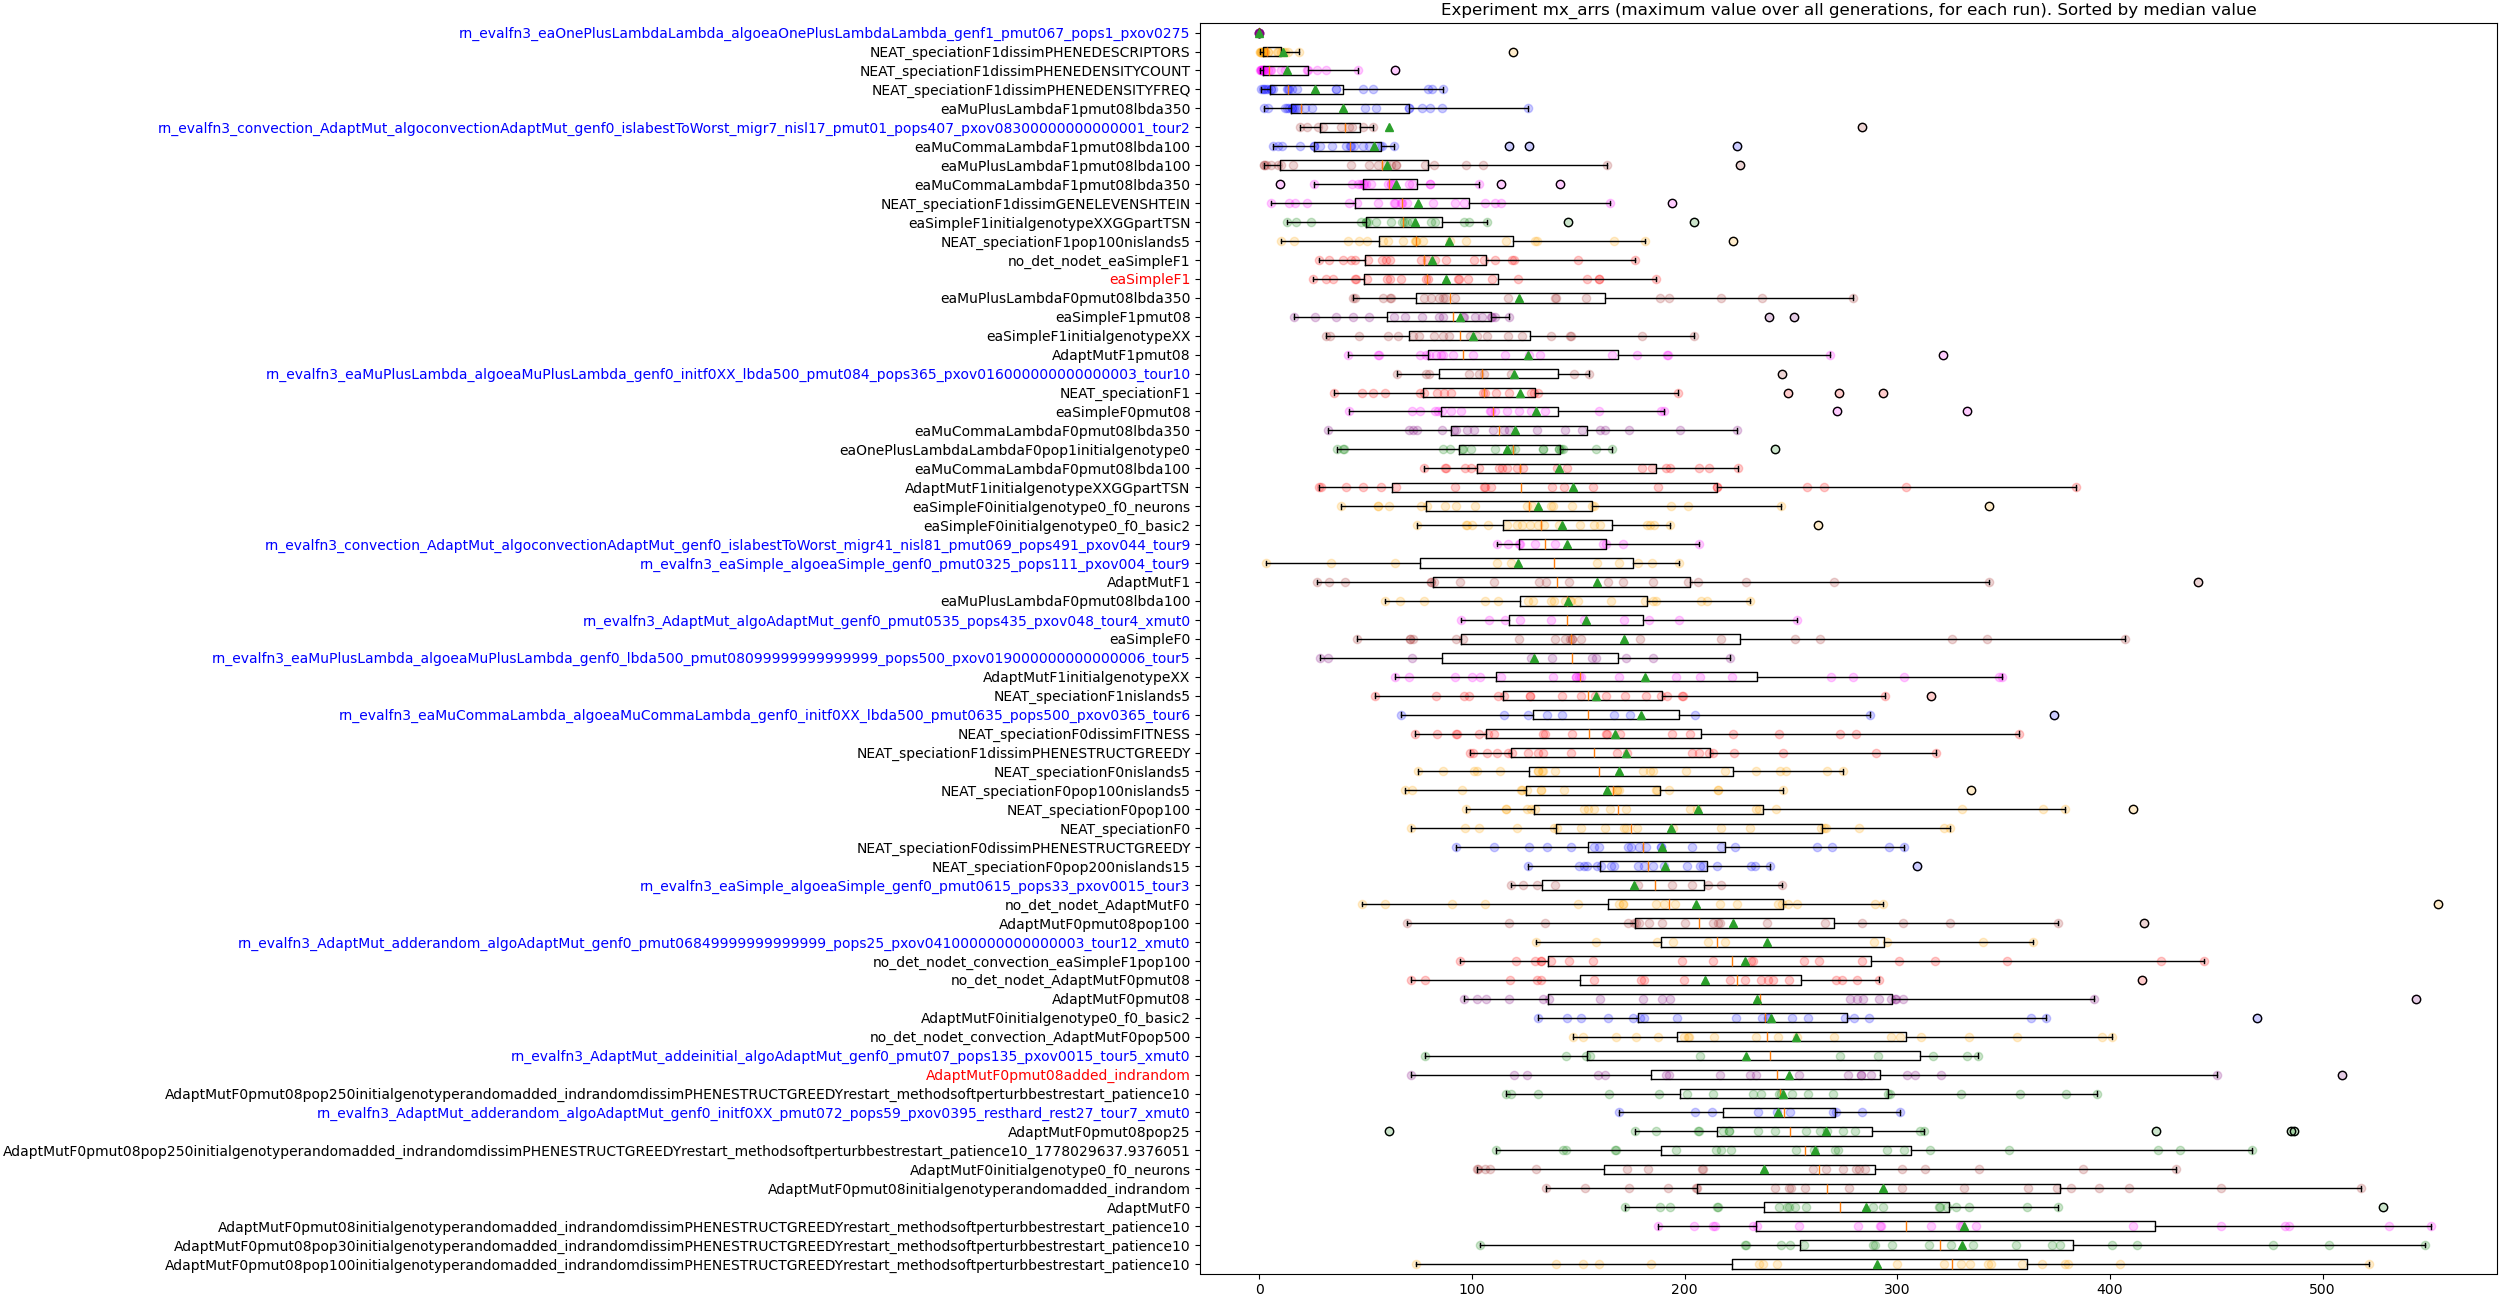
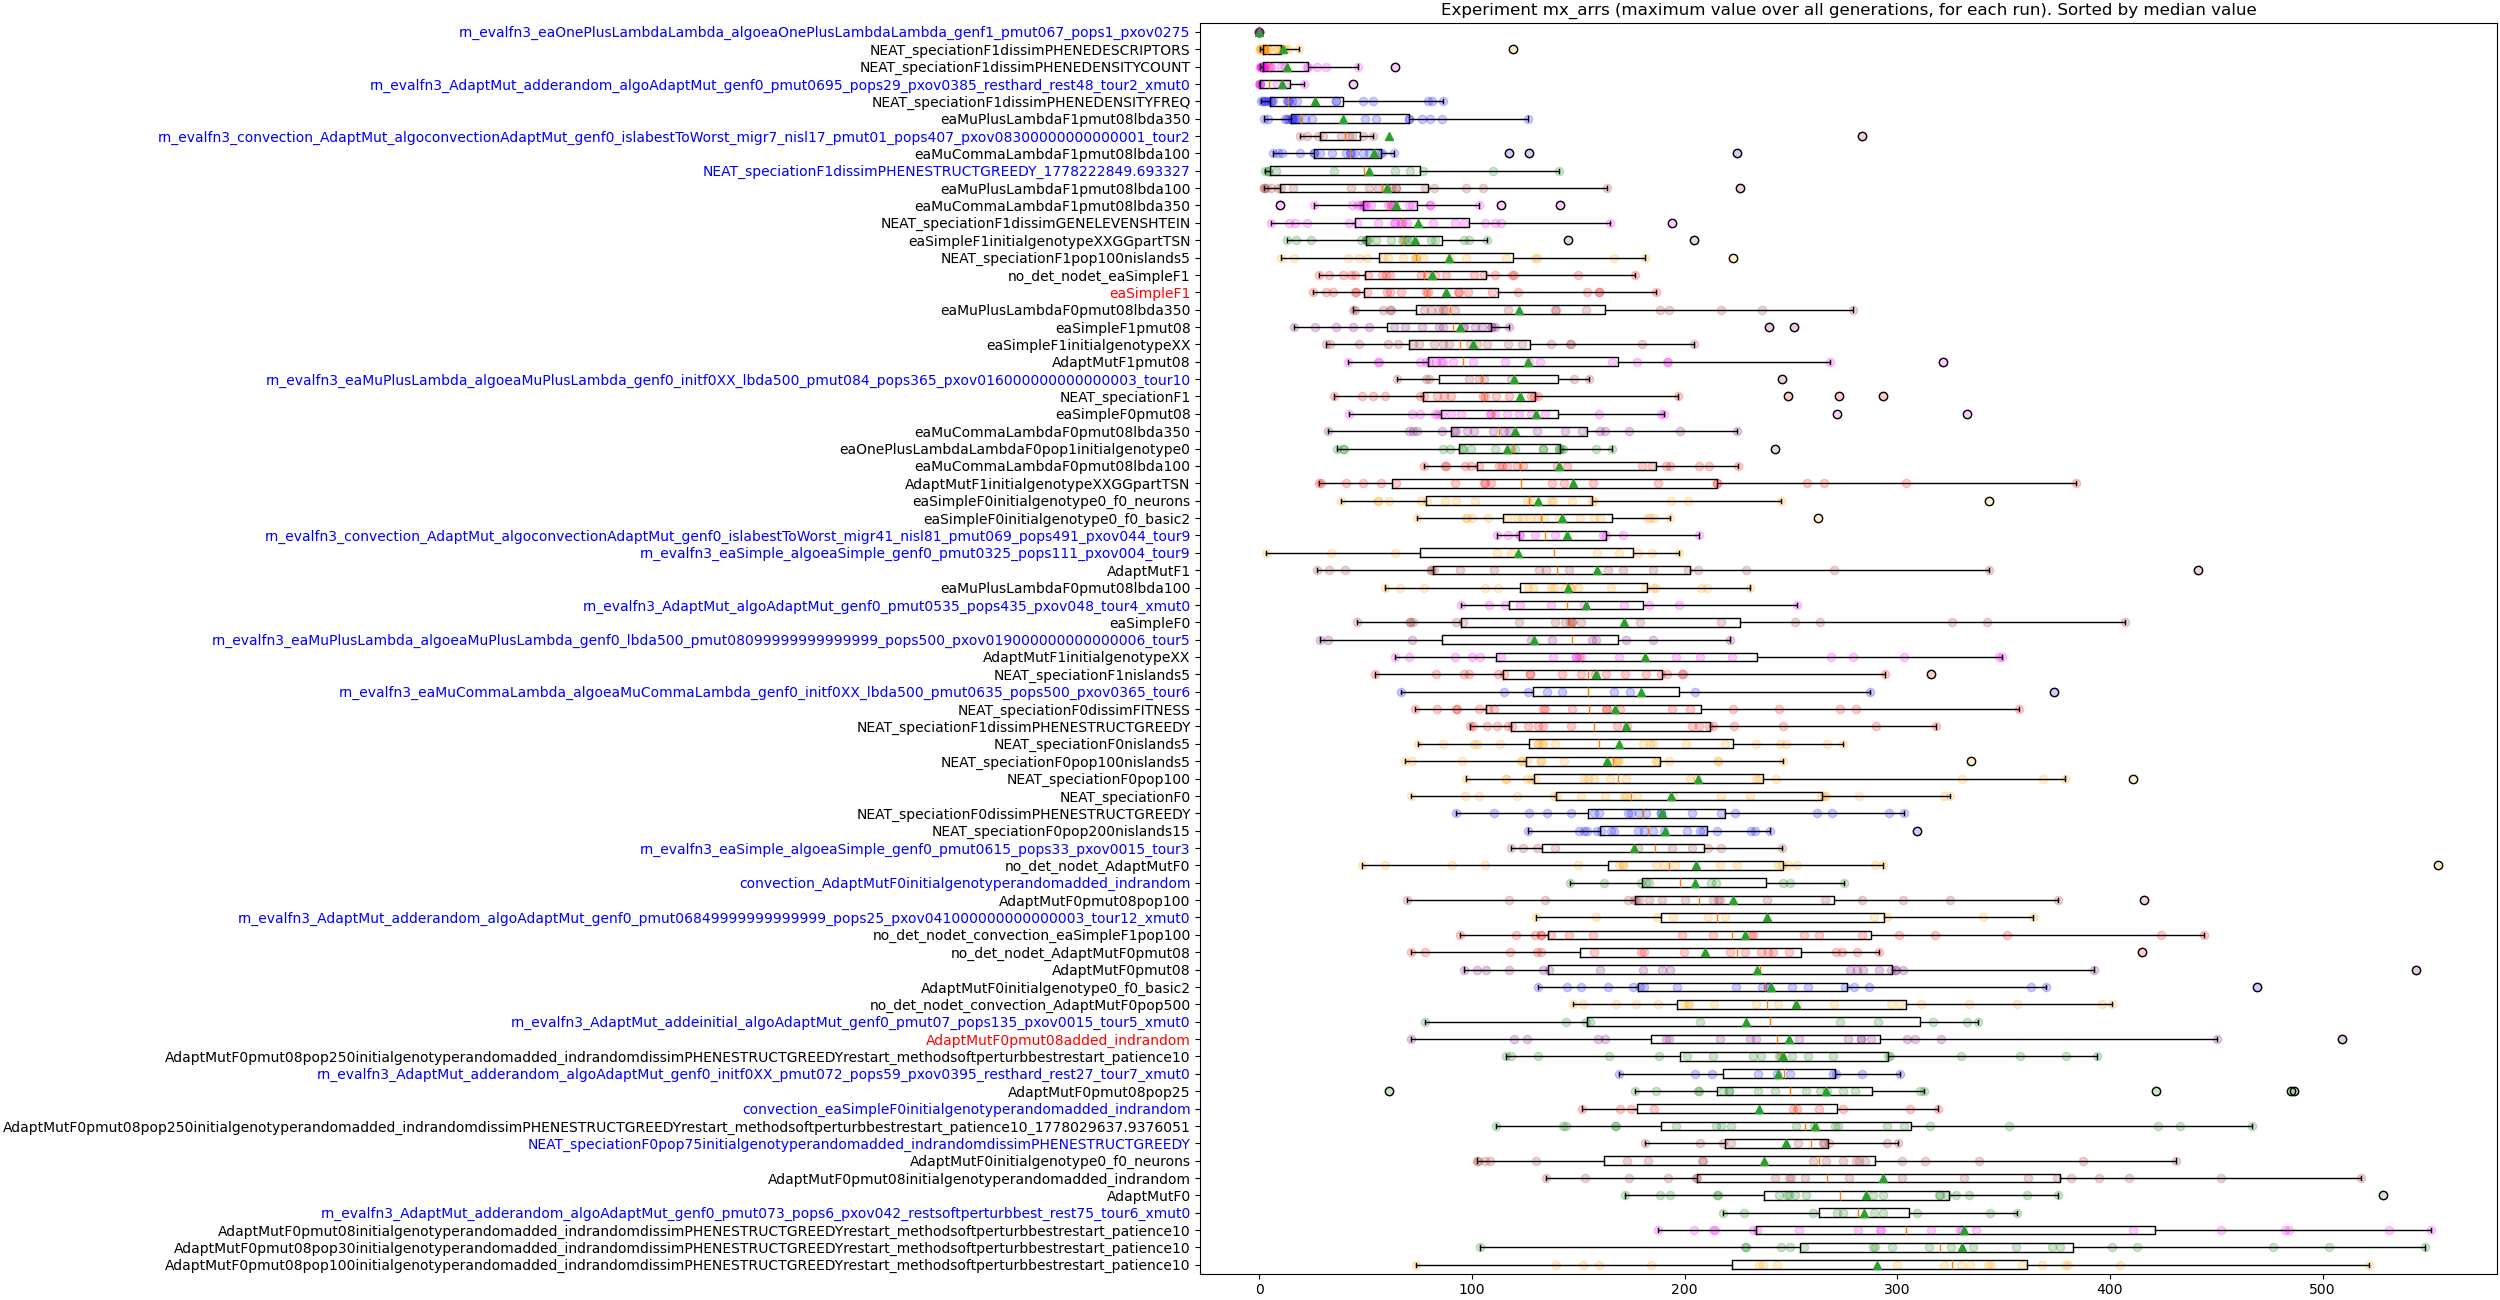
Update

Changed region(s): [[0.0, 0.0, 0.9672, 0.9846]]

diff --git a/src/dalgorithm/customMutation.py b/src/dalgorithm/customMutation.py
@@ -1,4 +1,104 @@
+"""
+Genman:
+ * genoper_f0 "Operators for f0" type="d 0 0 ~Default" flags=65 group=1 help=""
+ * genoper_f1 "Operators for f1" type="d 0 0 ~Default" flags=65 group=1 help=""
 
+ neuadd_* ....
+The selection params shouldn't be used, since the mutation/selection/xover are handled as part of the competition submission:
+------------------- Group #1: Experiment: Parameters: Selection -------------------
+ * p_nop "Unchanged" type="f 0 100 20" flags=192 group=1 help=""
+ * p_mut "Mutated" type="f 0 100 64" flags=192 group=1 help=""
+ * p_xov "Crossed over" type="f 0 100 16" flags=192 group=1 help=""
+ * xov_mins "Minimal similarity" type="f 0 9999 0" flags=192 group=1 help="Only genotypes with dissimilarity below this threshold will be crossed over.
+Value of 0 means no crossover restrictions."
+ * selrule "Selection rule" type="d 0 5 3 ~Random~Fitness-proportional (roulette)~Tournament (2 genotypes)~Tournament (3 genotypes)~Tournament (4 genotypes)~Tournament (5 genotypes)" flags=192 group=1 help="Positive selection: how to choose genotypes for cloning/mutation/crossover"
+ * delrule "Delete genotypes" type="d 0 2 ~Randomly~Inverse-proportionally to fitness~Only the worst" flags=192 group=1 help="Negative selection: which genotypes should be removed when we need room for new genotypes in the gene pool.
+If multiple-criteria NSGA-II is set as positive selection, this setting is ignored and "worst rank and crowding distance" is used as negative selection."
+
+------------------- Group #2: Experiment: Parameters: Fitness -------------------
+ * cr_c "Constant" type="f -10000 10000 0" flags=192 group=2 help="Constant value added to total fitness"
+ * cr_life "Life span" type="f -10000 10000 0" flags=192 group=2 help="Weight of life span in total fitness"
+ * cr_v "Velocity" type="f -10000 10000 0" flags=192 group=2 help="Weight of horizontal velocity in total fitness"
+ * cr_gl "Body parts" type="f -10000 10000 0" flags=192 group=2 help="Weight of body size (number of parts) in total fitness"
+ * cr_joints "Body joints" type="f -10000 10000 0" flags=192 group=2 help="Weight of structure size (number of joints) in total fitness"
+ * cr_nnsiz "Brain neurons" type="f -10000 10000 0" flags=192 group=2 help="Weight of brain size (number of neurons) in total fitness"
+ * cr_nncon "Brain connections" type="f -10000 10000 0" flags=192 group=2 help="Weight of brain connections in total fitness"
+ * cr_di "Distance" type="f -10000 10000 0" flags=192 group=2 help="Weight of distance in total fitness"
+ * cr_vpos "Vertical position" type="f -10000 10000 0" flags=192 group=2 help="Weight of vertical position in total fitness"
+ * cr_vvel "Vertical velocity" type="f -10000 10000 0" flags=192 group=2 help="Weight of vertical velocity in total fitness"
+ * cr_norm "Criteria normalization" type="d 0 1 0" flags=192 group=2 help="Normalize each criterion to 0..1 interval before weighting"
+ * cr_simi "Similarity speciation" type="d 0 1 0" flags=192 group=2 help="If enabled, fitness of each genotype will be reduced by its phenotypic similarity to all other genotypes in the gene pool"
+ * cr_nsga "NSGA-II for multiple criteria" type="d 0 1 0" flags=192 group=2 help="If enabled, fitness will be replaced with Pareto ranks from NSGA-II (Non-dominated Sorting Genetic Algorithm) method.
+Using tournament selection is recommended.
+This setting also forces negative selection to be "worst rank and crowding distance" independently from the negative selection setting."
+"""
+
+"""
+------------------- Group #3: Genetics: f0 -------------------
+ * f0_nodel_tag "Respect the 'delete inhibit' tag" type="d 0 1 1" flags=0 group=3 help="You can tag elements using their 'i' field and the i="mi=d" tag.
+Mutations will not delete such elements.
+The i="mi=dm" combination is allowed."
+ * f0_nomod_tag "Respect the 'modify inhibit' tag" type="d 0 1 1" flags=0 group=3 help="You can tag elements using their 'i' field and the i="mi=m" tag.
+Mutations will not modify properties of such elements.
+The i="mi=md" combination is allowed."
+
+------------------- Group #4: Genetics: f0: Parts -------------------
+ * f0_p_new "New part" type="f 0 100 4" flags=0 group=4 help=""
+ * f0_p_del "Delete part" type="f 0 100 4" flags=0 group=4 help=""
+ * f0_p_swp "Swap parts" type="f 0 100 1" flags=0 group=4 help=""
+ * f0_p_pos "Position" type="f 0 100 4" flags=0 group=4 help=""
+ * f0_p_den "Density" type="f 0 100 0" flags=0 group=4 help="Density only has an influence under water"
+ * f0_p_frc "Friction" type="f 0 100 1" flags=0 group=4 help=""
+ * f0_p_ing "Ingestion" type="f 0 100 0" flags=0 group=4 help=""
+ * f0_p_asm "Assimilation" type="f 0 100 0" flags=0 group=4 help="The interpretation and influence of this property must be implemented by the experiment definition"
+ * f0_p_color "Visual only: color" type="f 0 100 0.01" flags=0 group=4 help="If this value is above zero, apart from this mutation occurring, the color of every newly created gray Part will be mutated on creation"
+
+------------------- Group #5: Genetics: f0: Joints -------------------
+ * f0_j_new "New joint" type="f 0 100 4" flags=0 group=5 help=""
+ * f0_j_del "Delete joint" type="f 0 100 1" flags=0 group=5 help=""
+ * f0_j_stm "Stamina" type="f 0 100 0" flags=0 group=5 help="The interpretation and influence of this property must be implemented by the experiment definition"
+ * f0_j_stf "Stiffness" type="f 0 100 0" flags=0 group=5 help=""
+ * f0_j_rsf "Rotational stiffness" type="f 0 100 0" flags=0 group=5 help=""
+ * f0_j_color "Visual only: color" type="f 0 100 0.01" flags=0 group=5 help="If this value is above zero, apart from this mutation occurring, every newly created Joint will be assigned a color that is the average color of both joined Parts"
+
+------------------- Group #6: Genetics: f0: Neurons -------------------
+ * f0_n_new "New neuron" type="f 0 100 3" flags=0 group=6 help=""
+ * f0_n_del "Delete neuron" type="f 0 100 3" flags=0 group=6 help=""
+ * f0_n_prp "Change properties" type="f 0 100 1" flags=0 group=6 help=""
+
+------------------- Group #7: Genetics: f0: Connections -------------------
+ * f0_c_new "New connection" type="f 0 100 2" flags=0 group=7 help=""
+ * f0_c_del "Delete connection" type="f 0 100 2" flags=0 group=7 help=""
+ * f0_c_wei "Change weight" type="f 0 100 1" flags=0 group=7 help=""
+"""
+"""
+------------------- Group #13: Genetics: f1 -------------------
+ * f1_xo_propor "Proportional crossover" type="d 0 1 1" flags=0 group=13 help="Cross over (exchange) corresponding segments of the two parent genotypes?
+
+f1 uses a two-point crossing over.
+If this option is turned on, cut points will be selected proportionally to neural genes in both parents, and a similar number of characters will be exchanged if possible.
+Thus, if both parents have the same number of neurons, then this will be preserved in their children."
+
+------------------- Group #14: Genetics: f1: Morphology -------------------
+ * f1_smX "Add/remove a stick X" type="f 0 100 4" flags=0 group=14 help=""
+ * f1_smJunct "Add/remove a branch ( )" type="f 0 100 1" flags=0 group=14 help=""
+ * f1_smComma "Add/remove a comma ," type="f 0 100 1" flags=0 group=14 help=""
+ * f1_smModif "Add/remove a modifier" type="f 0 100 4" flags=0 group=14 help="Modifiers: LlRrCcQqFfMmEeWwSsAaIiDdGgBb"
+ * f1_smModifiers "Allowed modifiers" type="s 0 100" flags=0 group=14 help="Modifier symbols that will be added or deleted during mutation
+(from the full set: LlRrCcQqFfMmEeWwSsAaIiDdGgBb).
+
+You may use the extended syntax: after every allowed symbol, you may include its probability value in parentheses.
+Without parentheses, all allowed symbols behave as if they had (1.0) appended.
+If you include (0.0) after a symbol, this bans that symbol as if it was not present in this string."
+
+------------------- Group #15: Genetics: f1: Neuron net -------------------
+ * f1_nmNeu "Add/remove a neuron" type="f 0 100 4" flags=0 group=15 help="Adds a (connected) neuron or removes a neuron"
+ * f1_nmConn "Add/remove neural connection" type="f 0 100 2" flags=0 group=15 help=""
+ * f1_nmProp "Add/remove neuron property setting" type="f 0 100 1" flags=0 group=15 help=""
+ * f1_nmWei "Change connection weight" type="f 0 100 1" flags=0 group=15 help=""
+ * f1_nmVal "Change property value" type="f 0 100 1" flags=0 group=15 help=""
+"""
+# These values are taken from eval-allcriteria.sim, but it would be better to load them on Framsticks initialization.
 BODY_MUT = {
   "0":  {
 # Mutation weights pertaining to body parts/joints,
@@ -45,8 +145,8 @@ NEURO_MUT = {
     "f1_xo_propor": 1, # point crossover will cut so the same amount of neurons is in both cut parts
     "f1_nmNeu": 0.05,
     "f1_nmConn": 0.1,
-    "f1_nmProp": 0.1, # ??
-    "f1_nmWei": 1.0, # ??
+    "f1_nmProp": 0.1,
+    "f1_nmWei": 1.0,
     "f1_nmVal": 0.05,
   },
   "generic": {
@@ -89,16 +189,35 @@ NEURO_MUT = {
   }
 }
 
-DEFAULTS = {
-
+# TBD What parameter groups are useful to take together.
+SHORTCUTS = {
+  'add_thing': [
+    'f0_n_new', 'f0_c_new',
+    'f1_nmNeu', 'f1_nmConn', 'f1_nmProp',
+    # ????
+  ],
 }
+
+def setExpProperty(name, value):
+  exec(f"frams.GenMan.{name} = {value}")
+
+def getExpProperty(name):
+  rval = None # So compiler doesn't complain
+  exec(f"rval = frams.GenMan.{name}")
+  return rval
 
 def set_general_weights(framsLib, w_body, w_neuro):
   pass
 
+def get_all_prop_names(genetic_repr = None):
+  return list(NEURO_MUT["0"].keys() if genetic_repr != '1' else []) + list(NEURO_MUT["1"].keys() if genetic_repr != '0' else []) + list(NEURO_MUT["generic"].keys()) + \
+    list(BODY_MUT["0"].keys() if genetic_repr != '1' else []) + list(BODY_MUT["0"].keys() if genetic_repr != '0' else [])
+
 def get_current_weights(framsLib, genetic_repr):
-  pass
-  return {}
+  d = {}
+  for prop in get_all_prop_names():
+    d[prop] = getExpProperty(prop)
+  return d
 
 def set_weights(framsLib, genetic_repr, settings=DEFAULTS):
   pass

diff --git a/src/runExperiment.py b/src/runExperiment.py
@@ -118,7 +118,13 @@ def frams_getsimplest(frams_lib: FramsticksLib, genetic_format, initial_genotype
 	return initial_genotype if initial_genotype is not None else frams_lib.getSimplest(genetic_format)
 
 def frams_getrandomindividual(frams_lib: FramsticksLib, initial_genotype):
-	ind = frams_lib.getRandomGenotype(initial_genotype, 2, 100, 2, 100, 100, True)
+	ind = frams_lib.getRandomGenotype(initial_genotype, 
+			2,
+				min(parsed_args.max_numparts if parsed_args.max_numparts is not None else 10000000000000000000, 100),
+			# Movement should require at least 2 neurons: A muscle and a sensor
+			min(parsed_args.max_numneurons if parsed_args.max_numneurons is not None else 10000000000000000000, 2),
+				min(parsed_args.max_numneurons if parsed_args.max_numneurons is not None else 10000000000000000000, 100),
+			100, True)
 	return ind
 
 
@@ -179,7 +185,14 @@ def prepareToolbox(frams_lib, OPTIMIZATION_CRITERIA, tournament_size, genetic_fo
 	toolbox.register("attr_simplest_genotype", frams_getsimplest, frams_lib, genetic_format, initial_genotype)  # "Attribute generator"
 	toolbox.register("attr_random_genotype", frams_getrandomindividual, frams_lib, toolbox.attr_simplest_genotype())  # "Attribute generator"
 	def attr_random_pop_from_genotype(frams_lib, init_geno, n):
-		pop = [tools.initRepeat(creator.Individual, lambda: frams_lib.getRandomGenotype(init_geno, 2, 100, 2, 100, random.randrange(0, 4), True), 1) for _ in range(n // 4)]
+		pop = [tools.initRepeat(creator.Individual, lambda: frams_lib.getRandomGenotype(init_geno,
+				2,
+					min(parsed_args.max_numparts if parsed_args.max_numparts is not None else 10000000000000000000, 100),
+				# Movement should require at least 2 neurons: A muscle and a sensor
+				min(parsed_args.max_numneurons if parsed_args.max_numneurons is not None else 10000000000000000000, 2),
+					min(parsed_args.max_numneurons if parsed_args.max_numneurons is not None else 10000000000000000000, 100),
+				random.randrange(0, 4), True)
+			, 1) for _ in range(n // 4)]
 		# Reinit with 1/4 best ind, 3/4 randoms.
 		return pop + [tools.initRepeat(creator.Individual, toolbox.attr_random_genotype, 1) for _ in range(n - len(pop))]
 

diff --git a/src/load_optuna.py b/src/load_optuna.py
@@ -13,6 +13,7 @@ CONFIG = load_config()
 DB_PATH = get_database_path(CONFIG)
 
 SIMPLEST_GENOTYPE = {
+    '_random': 'random',
     '_simplest':'None',
     'f1_XX':'XX',
     # In order: @rotation muscle, |bending muscle, Gyroscope, Gpart (Tilt), Muscle, Touch, Smell, Neuron(sigmoid), *constant
@@ -53,7 +54,7 @@ PARAM_DISTRIBUTIONS = {
   ]),
   'nodet': optuna.distributions.CategoricalDistribution([0, 1]),
   'genformat': optuna.distributions.CategoricalDistribution([0, 1]),
-  'initialgenotype': optuna.distributions.CategoricalDistribution(['simplest', 'XX', 'XXneurons']),
+  'initialgenotype': optuna.distributions.CategoricalDistribution(['simplest', 'XX', 'XXneurons', 'random']),
   # EA parameters
   'popsize': optuna.distributions.IntDistribution(1, 500, step=1),
   'tournament': optuna.distributions.IntDistribution(2, 20),
@@ -126,7 +127,10 @@ def try_cast(value: str, type):
 
 def from_str_to_type(algo_data_param, param_name: str):
   value = algo_data_param.get(param_name)
-  if param_name == 'initialgenotype' and value in SIMPLEST_GENOTYPE.values():
+  if param_name == 'initialgenotype':
+    if value not in SIMPLEST_GENOTYPE.values():
+      print("Oops, not valid initialgenotype: ", value)
+      exit(0)
     cval = [k for k,v in SIMPLEST_GENOTYPE.items() if v == value][0]
     print('cval', cval)
     if cval.startswith('f0'):
@@ -185,10 +189,16 @@ def create_study_and_import(study: optuna.Study, algo_key: str, algo_data: dict)
     if algo_data['params'].get('restart_method', None) == 'none' \
         or algo_data['params'].get('restart_patience', None) == '100000000':
       algo_data['params'].pop('restart_patience')
+    print('baba', algo_data['params'].get('population_initialization', None))
+    if algo_data['params'].get('population_initialization', None) == 'random':
+      algo_data['params']['initialgenotype'] = 'random'
+    if algo_data['params'].get('population_initialization', None) is not None:
+      algo_data['params'].pop('population_initialization')
     print(algo_data['params'])
     for param_name in PARAM_DISTRIBUTIONS.keys():
       if param_name in ALGO_PARAMS[algo_data['params']['algorithm']]:
         params[param_name] = DEFAULTS[param_name] if param_name not in algo_data['params'] or algo_data['params'][param_name] == 'None' else from_str_to_type(algo_data['params'], param_name)
+    print(params)
 
     meta_list = algo_data['meta']
     runs = algo_data['runs']

diff --git a/src/runExperimentsQueue.py b/src/runExperimentsQueue.py
@@ -92,18 +92,6 @@ def getUnrunExperiments():
     print (f"{alr_run}/{runns} ({alr_run/runns:.3f})")
 
 runs_cfgs = [
-    {
-        'convection': False, #[None, 'convection_'],
-        'algorithm': 'AdaptMut', # ['AdaptMut', 'eaSimple', 'eaMuPlusLambda', 'eaMuCommaLambda', 'NEAT_speciation'],
-        'genformat': 0, # [0, 1],
-        'pmut': 0.8, # [None, 0.8, 0.5],
-        'pop': 30, # [None, 100, 500],
-        'lbda': None, # [100, 350]
-        'extra': ' -numworkers 10 -nruns 20 ', # -nodet 1
-        'extra_cargs': f' -initialgenotype random -added_ind random -dissim PHENE_STRUCT_GREEDY -restart_method soft_perturb_best -restart_patience 10', #f' -initialgenotype \\"{SIMPLEST_GENOTYPE["f1_basic2"]}\\" ', -dissim FITNESS -opt COGpath,vertpos 
-        'nameSuffix': '',
-        'namePrefix': '',
-    },
     ## TODO: Rerun the following in the weekend, when no other processes are running:
     # {
     #     'convection': None, #[None, 'convection_'],

diff --git a/framspy/frams-test.py b/framspy/frams-test.py
@@ -87,6 +87,11 @@ for s in range(15):
 	print(offspring.genotype)
 frams.GenMan.f1_nmNeu = 0.5
 print('oops')
+for s in range(15):
+	step()  # first step performs selection and revives one genotype according to standard.expdef rules
+	creature = frams.Populations[0][0]  # FramScript Creature object
+	offspring = frams.GenMan.mutate(frams.Geno.newFromString(creature.genotype))
+	print(offspring.genotype)
 creature_orig = str((frams.Populations[0][0]).genotype)
 print('=', creature_orig)
 import copy, random
@@ -110,7 +115,7 @@ def frams_dissim(frams_lib: FramsticksLib, individuals: list, dissim_method:Diss
 	# print(individuals)
 	return frams_lib.dissimilarity(individuals, method=dissim_method)
 FramsticksLib.DETERMINISTIC = False
-fsl = FramsticksLib('I:\Disertatie\Framsticks', None, 'eval-allcriteria.sim;deterministic.sim;recording-body-coords.sim')
+fsl = FramsticksLib('../../Framsticks54', None, 'eval-allcriteria.sim;deterministic.sim;recording-body-coords.sim')
 violations={dm: {'triangle': 0, 'sim': 0, 'time': 0} for dm in DissimMethod}
 import numpy as np, time
 

diff --git a/src/dalgorithm/AdaptMut.py b/src/dalgorithm/AdaptMut.py
@@ -136,9 +136,9 @@ def adaptMut(population, toolbox, cxpb, mutpb, ngen, xmut_enabled, added_ind,
             consider_interval = maxFits[-restart_patience:-1]
             bestFitPast = sorted(consider_interval, key=lambda x: x[0], reverse=True)[0]
             ind = consider_interval.index(bestFitPast)
-            for mf in consider_interval:
-                print(f"({mf[0]:10.5f})")
-            print(len(consider_interval))
+            # for mf in consider_interval:
+            #     print(f"({mf[0]:10.5f})")
+            # print(len(consider_interval))
             print(f"{maxFits[-1][0]} <= {bestFitPast[0]} and {ind} == {restart_patience}")
             # bestFitPast = maxFits[-restart_patience:]
             if maxFits[-1][0] <= bestFitPast[0] and ind == 0:

diff --git a/src/dalgorithm/NEAT_speciation.py b/src/dalgorithm/NEAT_speciation.py
@@ -18,10 +18,7 @@ class Species:
     def __init__(self, pop: list):
         self.pop = pop
         self.past_fitnesses = []
-
-    @property
-    def uid(self):
-        return id(self) % UID_P10
+        self.uid = id(self) % UID_P10
 
     @property
     def age(self):

diff --git a/src/collect_data.py b/src/collect_data.py
@@ -86,8 +86,6 @@ def parse_algo_params(name: str):
     pp = re.findall(PARAM_PATT, parstr)
     for g in pp:
         params[g[0]] = g[1]
-    if 'population_initialization' in params:
-        params.pop('population_initialization')
     return params
 
 PARAM_PATT = re.compile(r'\b([\w0-9]+)=([\w0-9_\-\n \/.;:]+)')
@@ -555,7 +553,7 @@ if __name__ == '__main__':
         print = lambda *x, **kw: x
     if parsedargs.redo:
         os.system(f'rm {DATA_FILE}')
-        os.system(f'rm {STATS_FILE}')
+    os.system(f'rm {STATS_FILE}')
     if not os.path.exists(STATS_FILE):
         if not os.path.exists(DATA_FILE):
             print('Parsing results...')

diff --git a/src/optuna_study.py b/src/optuna_study.py
@@ -143,6 +143,8 @@ N_JOBS = 10  # Change to 10 for parallel execution
 # ============================================================================
 
 SIMPLEST_GENOTYPE = {
+    'f1_random': 'random',
+    'f0_random': 'random',
     'f1_simplest':None,
     'f0_simplest':None,
     'f1_XX':'XX',
@@ -183,7 +185,7 @@ def get_algorithm_specific_params(trial: optuna.Trial, algorithm: str) -> dict:
     params["algorithm"] = algorithm
     params["genformat"] = trial.suggest_categorical("genformat", [0, 1])
     params["pmut"] = trial.suggest_float("pmut", 0.1, 1.0, step=0.005)
-    params["initialgenotype"] = trial.suggest_categorical("initialgenotype", ["simplest", "XX", "XXneurons"])
+    params["initialgenotype"] = trial.suggest_categorical("initialgenotype", ["simplest", "XX", "XXneurons", "random"])
 
     # Algorithm-specific parameters
     if algorithm == 'eaOnePlusLambdaLambda':

diff --git a/src/dalgorithm/Annealer.py b/src/dalgorithm/Annealer.py
@@ -82,7 +82,7 @@ def annealer(population, toolbox, ngen, adaptMut=True, temp_schedule='constant',
 
         # Update temp
         if temp_schedule == 'exponential':
-            temperature = np.clip(temperature * cooling_rate, 0.01, 1.0)
+            temperature = np.clip(temperature * cooling_rate, 5, 40)
         elif temp_schedule == 'constant':
             pass
         else:

diff --git a/README.md b/README.md
@@ -110,18 +110,30 @@ Novelty stage > Evolution stage > Annealing stage
 https://github.com/CodeReclaimers/neat-python
 https://github.com/marcovirgolin/GP-GOMEA
 
+#### For prof next time
+
+- [ ] I implemented Annealer, but solution quickly deteriorates in small tests (1000 evals)
+	- [ ] Find better params first
+- [ ] Ask about Memetic algorithms (passing the mutation params as part of the genotype)
+- [ ] Can I use 'altering mutation params dynamically' as part of some algorithm?
+	- [ ] (i.e. mutation schedules like: body(add) for 5 gens, mutate brain(add/modify) for 2 gens, body(modify/remove) 5 gens, etc..)
+
 #### Observations/Takeaways
 
 * `eaOnePlusLambdaLambda` - allow fitness-neutral improvements, otherwise you'll never leave the starting genotype
 * Most final solutions of a run have a lot of neurons which are unused
-  * So set the starting genotype not as the simplest possible, but the simplest given the problem at hand (i.e. We need movement -> a solution will have at least 2 bones and some neurons) 
+* So set the starting genotype not as the simplest possible, but the simplest given the problem at hand (i.e. We need movement -> a solution will have at least 2 bones and some neurons) 
   * [ ] TODO: Add some guards so you can't use the neuron initial genotype when the simulator has maxnumneuros = 0
+  * [ ] NOT FOR COMPETITION (GPU-based NN method): Use https://snap.stanford.edu/frequent-subgraph-mining/ to identify frequent sub-graphs aka. Building Blocks 
 
 #### TODO
 
 _Roughly ordered by difficulty/impact_
 
 * [ ] GOMEA ([2025 competition entry description here](https://www.framsticks.com/filebrowser/download/341) - it relies on f1)
+	* [ ] Create f0 -> GP tree parser
+	* [ ] Figure out linkage models for graphs
+* [ ] Augument `soft_perturb_best` restart by pruning useless neurons first, then mutating? Most neurons are not connected to anything
 * [ ] Add soft restarts to more algorithms
 	* [x] AdaptMut
 	* [ ] eaSimple
@@ -663,13 +675,17 @@ Well of papers: https://nn.cs.utexas.edu/?evolution
 	- Implementations: [PecanPy](https://github.com/krishnanlab/PecanPy) [node2vec](https://github.com/eliorc/node2vec)
 
 [^gomea-building-block]: [Scalable Genetic Programming by Gene-Pool Optimal Mixing and Input-Space Entropy-Based Building-Block Learning](https://dl.acm.org/doi/epdf/10.1145/3071178.3071287) (Jul 2017, GECCO)
-	#toresee
 	- GP-GOMEA: Algorithm has no parameters
 	- Has a way to build library of best sub-solutions
 	- Input-space Entropy-based Building-block Learning (IEBL)
 		- Uses heuristics to identify BBs
 			- I didn't understand how BBs are identified (Section 3.1)
-		- #stub-article[Ramped half-and-half generation](https://www.researchgate.net/publication/220743001_Ramped_Half-n-Half_Initialisation_Bias_in_GP)
+			- Take 2 for understanding it:
+				- Generate a population of small solutions
+					- The frequency of building blocks shouldn't be different between first and last generation in pop (so they say)
+				- #stub-article[Ramped half-and-half generation](https://www.researchgate.net/publication/220743001_Ramped_Half-n-Half_Initialisation_Bias_in_GP)
+					- Each ind has access to some subset of all possible nodes, to increase redundancy
+				- Afterwards, add each BB as a node type for the population to use (remove duplicates and low-entropy/complexity BBs)
 	- Interleaved Multistart Scheme - every g generations of the main GOMEA, run a generation of a pop_size\*2 GOMEA (global_best is global between populations)
 	- GOMEA 1 + log10 (|pop_size|) = patience for improvement; afterwards introduce global_best into the donor pool
 	- #advice Keep repository of all evaluated genotypes, to reduce amount of fitness evaluation